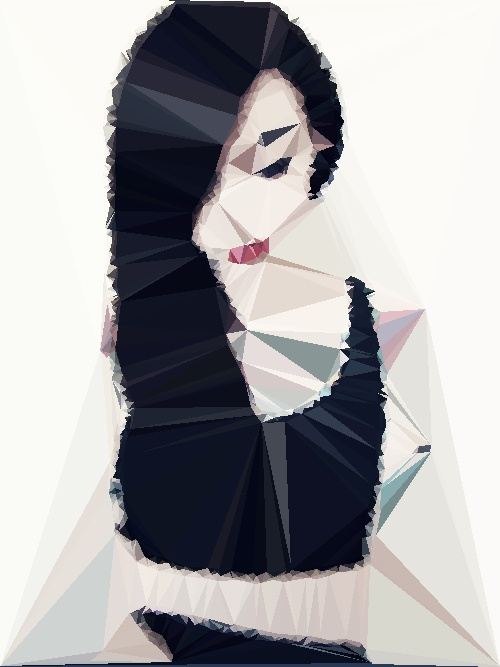
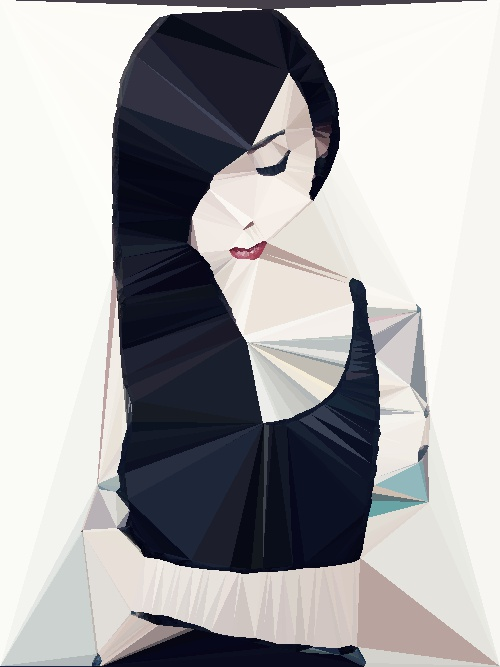
Laplacian edge detection algorithm introduced. README.md updated.

Changed region(s): [[0.03, 0.0, 1.0, 1.0], [0.3, 0.3898, 0.36, 0.4198], [0.33, 0.7796, 0.36, 0.8096]]

diff --git a/src/main/java/esz/dev/delaunay/Delaunay.java b/src/main/java/esz/dev/delaunay/Delaunay.java
@@ -18,7 +18,7 @@ public class Delaunay {
     }
 
     private Mat createEmptyImage(Size size, int type) {
-        return new Mat(size, type);
+        return Mat.zeros(size, type);
     }
 
     private Mat createEmptyGrayscaleImage(Size size) {
@@ -26,15 +26,15 @@ public class Delaunay {
     }
 
     private Mat createSobelImage(Mat grayImage) {
-        int dept = CvType.CV_16S;
+        int depth = CvType.CV_16S;
         int scale = 1;
         int delta = 0;
 
         Mat gradientX = createEmptyGrayscaleImage(grayImage.size());
-        Imgproc.Sobel(grayImage, gradientX, dept, 1, 0, arguments.getSobelKernelSize(), scale, delta, Core.BORDER_DEFAULT);
+        Imgproc.Sobel(grayImage, gradientX, depth, 1, 0, arguments.getSobelKernelSize(), scale, delta, Core.BORDER_DEFAULT);
 
         Mat gradientY = createEmptyGrayscaleImage(grayImage.size());
-        Imgproc.Sobel(grayImage, gradientY, dept, 0, 1, arguments.getSobelKernelSize(), scale, delta, Core.BORDER_DEFAULT);
+        Imgproc.Sobel(grayImage, gradientY, depth, 0, 1, arguments.getSobelKernelSize(), scale, delta, Core.BORDER_DEFAULT);
 
         Mat absGradientX = createEmptyGrayscaleImage(gradientX.size());
         Core.convertScaleAbs(gradientX, absGradientX);
@@ -48,13 +48,26 @@ public class Delaunay {
         return gradient;
     }
 
+    private Mat createLaplacianImage(Mat grayImage) {
+        int depth = CvType.CV_16S;
+        int scale = 1;
+        int delta = 0;
+
+        Mat gradient = createEmptyGrayscaleImage(grayImage.size());
+        Imgproc.Laplacian(grayImage, gradient, depth, arguments.getSobelKernelSize(), scale, delta, Core.BORDER_DEFAULT);
+        gradient.convertTo(gradient, CvType.CV_8U);
+
+        return gradient;
+    }
+
     private ArrayList<Point> getEdgePoints(Mat gradientImage, int threshold, int maxNrOfPoints) {
         ArrayList<Point> allEdgePoints = new ArrayList();
+        int offset = 127;
         for (int i = 0; i < gradientImage.rows(); ++i) {
             for (int j = 0; j < gradientImage.cols(); ++j) {
                 byte[] pixel = new byte[3];
                 gradientImage.get(i, j, pixel);
-                if (pixel[0] >= threshold) {
+                if (pixel[0] + offset >= threshold) {
                     allEdgePoints.add(new Point(i, j));
                 }
             }
@@ -76,7 +89,7 @@ public class Delaunay {
         if (draw) {
             Mat image = createEmptyGrayscaleImage(size);
             edgePoints.forEach(point -> {
-                image.put((int) Math.round(point.x), (int) Math.round(point.y), 255);
+                image.put((int)point.x, (int)point.y, 255);
             });
             Imgcodecs.imwrite("res/edgepoints.jpg", image);
         }
@@ -250,12 +263,25 @@ public class Delaunay {
         Imgproc.cvtColor(bluredImage, grayscaleImage, Imgproc.COLOR_RGB2GRAY);
         printCreatedGrayScaleFromBlur();
 
-        // create Sobel image
-        Mat sobel = createSobelImage(grayscaleImage);
+        // detect edges
+        Mat detectedEdges = null;
+        switch (arguments.getEdgeDetectionAlgorithm()) {
+            case "sobel:": {
+                detectedEdges = createSobelImage(grayscaleImage);
+                break;
+            }
+            case "laplacian": {
+                detectedEdges = createLaplacianImage(grayscaleImage);
+                break;
+            }
+            default: {
+                throw new DelaunayException("Invalid edgedetection algorithm!");
+            }
+        }
         printCreatedSobelImage();
 
         // get edge points from the image
-        ArrayList<Point> edgePoints = getEdgePoints(sobel, arguments.getThreshold(), arguments.getMaxNrOfPoints());
+        ArrayList<Point> edgePoints = getEdgePoints(detectedEdges, arguments.getThreshold(), arguments.getMaxNrOfPoints());
         drawEdgePoints(edgePoints, originalImage.size(), true);
         printEdgePointsDetected();
 

diff --git a/src/main/java/esz/dev/argparse/ArgumentParser.java b/src/main/java/esz/dev/argparse/ArgumentParser.java
@@ -70,6 +70,21 @@ public class ArgumentParser {
                     }
                     break;
                 }
+                case "-ea": {
+                    ++i;
+                    if (i < args.length) {
+                        String algorithm = args[i];
+                        final String[] algorithms = {"sobel", "laplacian"};
+                        if (Arrays.stream(algorithms).anyMatch(alg -> algorithm.equals(alg))) {
+                            arguments.setEdgeDetectionAlgorithm(args[i]);
+                        } else {
+                            throw new ArgParseException("Invalid edge detection algorithm! Allowed values are: sobel, laplacian");
+                        }
+                    } else {
+                        throw new ArgParseException("No argument is present after -ea!");
+                    }
+                    break;
+                }
                 case "-sk": {
                     ++i;
                     if (i < args.length) {
@@ -105,6 +120,28 @@ public class ArgumentParser {
     }
 
     public static void showHelp() {
-        System.out.println("Help!");
+        System.out.print("\n");
+        System.out.print("----Usage---\n");
+        System.out.print("\n");
+        System.out.print("java -jar delaunay.jar <intput path> <output path> [args]\n");
+        System.out.print("\n");
+        System.out.print("Mandatory (stationary) arguments: <input path> <output path>.\n");
+        System.out.print("<input path>: path to the input image. Extensions supported: .jpg, .jpeg, .png\n");
+        System.out.print("<input path>: path to where the output image should be saved. Extensions supported for the output image: .jpg, .jpeg, .png\n");
+        System.out.print("\n");
+        System.out.print("Example of usage: java -jar delaunay.jar in.png out.png \n");
+        System.out.print("\n");
+        System.out.print("-bk <nr>: blur kernel size, <nr> should be a positive odd integer. Default value: 35 \n");
+        System.out.print("-t <nr>: threshold value, <nr> should be a positive integer between 0 and 255. Default value: 200\n");
+        System.out.print("-max <nr>: maximum number of points, <nr> should be a positive integer. Default value: 1000 \n");
+        System.out.print("-ea <alg>: edge detection algorithm, accepted values for <arg> are: sobel, laplacian. Default value: sobel \n");
+        System.out.print("-sk <nr>: sobel kernel size, should be a value from the following set: [1, 3, 5, 7]. Default value: 3 \n");
+        System.out.print("-grayscale: setting this flag, the output image will be grayscale. Default value: false \n");
+        System.out.print("-verbose: activate console logging. Default value: false \n");
+        System.out.print("\n");
+        System.out.print("Examples: \n");
+        System.out.print("Example of usage: java -jar delaunay.jar in.png out.png -ea laplacian -sk 5 -max 2000 -t 200 -v \n");
+        System.out.print("Example of usage: java -jar delaunay.jar in.png out.png -max 2000 -grayscale \n");
+        System.out.print("\n");
     }
 }

diff --git a/src/test/java/argparse/ArgumentParserTest.java b/src/test/java/argparse/ArgumentParserTest.java
@@ -67,6 +67,35 @@ public class ArgumentParserTest {
     }
 
     @Test
+    public void validEdgeDetectionAlgorithm() {
+        String[] args= {"in.png", "out.png", "-ea", "laplacian"};
+        ArgumentParser argumentParser = new ArgumentParser(args);
+        try {
+            Arguments arguments = argumentParser.process();
+            Assertions.assertNotNull(arguments);
+            Assertions.assertEquals(arguments.getEdgeDetectionAlgorithm(), "laplacian");
+        } catch (ArgParseException e) {
+            Assertions.fail("ArgumentParser should not throw exception!");
+        }
+    }
+
+    @Test
+    public void invalidEdgeDetectionAlgorithm() {
+        String[] args= {"in.png", "out.png", "-ea", "asd"};
+        ArgumentParser argumentParser = new ArgumentParser(args);
+        Throwable exception = Assertions.assertThrows(ArgParseException.class, argumentParser::process);
+        Assertions.assertEquals(exception.getMessage(), "Invalid edge detection algorithm! Allowed values are: sobel, laplacian");
+    }
+
+    @Test
+    public void edgeDetectionAlgorithmMissing() {
+        String[] args= {"in.png", "out.png", "-ea"};
+        ArgumentParser argumentParser = new ArgumentParser(args);
+        Throwable exception = Assertions.assertThrows(ArgParseException.class, argumentParser::process);
+        Assertions.assertEquals(exception.getMessage(), "No argument is present after -ea!");
+    }
+
+    @Test
     public void validSobelKernelSize() {
         String[] args = {"in.png", "out.png", "-sk", "3"};
         ArgumentParser argumentParser = new ArgumentParser(args);

diff --git a/src/main/java/esz/dev/argparse/Arguments.java b/src/main/java/esz/dev/argparse/Arguments.java
@@ -6,7 +6,8 @@ public class Arguments {
     private String output = "";
     private int blurKernelSize = 35;
     private boolean verbose = false;
-    private int threshold = 30;
+    private int threshold = 200;
+    private String edgeDetectionAlgorithm = "sobel";
     private int sobelKernelSize = 3;
     private int maxNrOfPoints = 1000;
     private boolean grayscale = false;
@@ -52,6 +53,14 @@ public class Arguments {
 
     public void setThreshold(int treshold) {
         this.threshold = treshold;
+    }
+
+    public String getEdgeDetectionAlgorithm() {
+        return edgeDetectionAlgorithm;
+    }
+
+    public void setEdgeDetectionAlgorithm(String edgeDetectionAlgorithm) {
+        this.edgeDetectionAlgorithm = edgeDetectionAlgorithm;
     }
 
     public int getMaxNrOfPoints() {

diff --git a/README.md b/README.md
@@ -1,1 +1,52 @@
 # DelaunayImage
+
+## Description
+Generate artistic images using [Delaunay](https://en.wikipedia.org/wiki/Delaunay_triangulation) triangulation algorithm.
+
+![alt text](res/img3_out.jpg "Logo Title Text 1")
+
+### Procedure steps:
+1. Blur the original image using *Gaussian blur* procedure.
+2. Create a grayscale image from the blurred image.
+3. Detect edges  using sobel or laplacian algorithm.
+4. Apply a threshold on the image containing the edges of the original image. This serves as a noise reduction procedure.
+5. Get the remaining points and create a *Delaunay* mesh using the [Bowyer-Watson](https://en.wikipedia.org/wiki/Bowyer%E2%80%93Watson_algorithm) algorithm.
+6. Reconstruct the image using the *Delaunay* mesh.
+
+## Build
+```
+git clone [repo]
+mvn clean install
+```
+
+### Dependecies
+* OpenCV
+* JUnit5
+
+## Example of usage
+
+```
+----Usage---
+
+java -jar delaunay.jar <intput path> <output path> [args]
+
+Mandatory (stationary) arguments: <input path> <output path>.
+<input path>: path to the input image. Extensions supported: .jpg, .jpeg, .png
+<input path>: path to where the output image should be saved. Extensions supported for the output image: .jpg, .jpeg, .png
+
+Example of usage: java -jar delaunay.jar in.png out.png 
+
+-bk <nr>: blur kernel size, <nr> should be a positive odd integer. Default value: 35 
+-t <nr>: threshold value, <nr> should be a positive integer between 0 and 255. Default value: 200
+-max <nr>: maximum number of points, <nr> should be a positive integer. Default value: 1000 
+-ea <alg>: edge detection algorithm, accepted values for <arg> are: sobel, laplacian. Default value: sobel 
+-sk <nr>: sobel kernel size, should be a value from the following set: [1, 3, 5, 7]. Default value: 3 
+-grayscale: setting this flag, the output image will be grayscale. Default value: false 
+-verbose: activate console logging. Default value: false 
+
+Examples: 
+Example of usage: java -jar delaunay.jar in.png out.png -ea laplacian -sk 5 -max 2000 -t 200 -v 
+Example of usage: java -jar delaunay.jar in.png out.png -max 2000 -grayscale 
+```
+
+## Output examples
